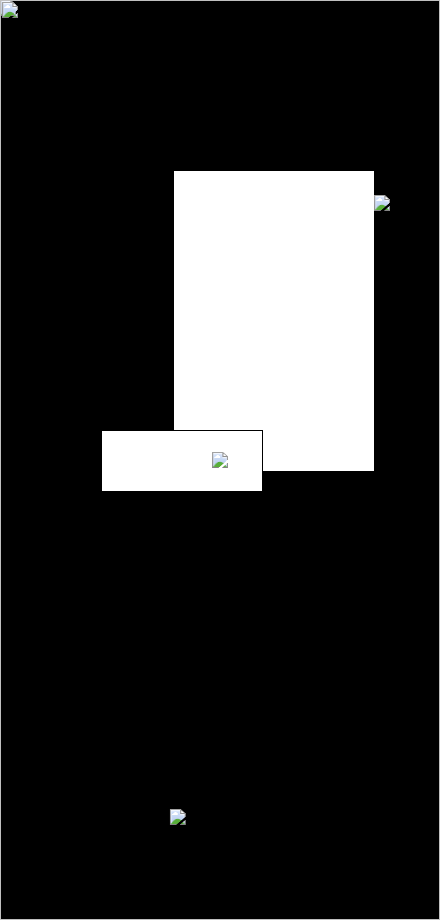
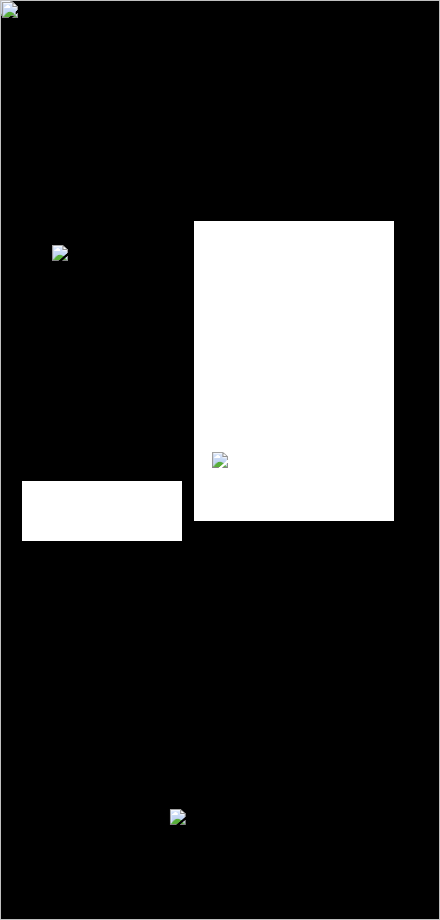
Revert result element positions on ending screen.
- Set #result-canvases top back to 210px.
- Restored Canvas 1 position to right: 25px.
- Restored Canvas 2 position to left: 1px.
- Restored Canvas 3 (cooking) position to left: 175px (top-left of Canvas 1).
- Restored endg.png position to left: 32px.
- Updated saveEndingImage coordinate mapping to reflect 210px resultAreaTop.

Changed region(s): [[0.0295, 0.1826, 0.9159, 0.6087], [0.1182, 0.2435, 0.1477, 0.3043]]

diff --git a/index.html b/index.html
@@ -450,7 +450,7 @@
 
         #result-canvases {
             position: absolute;
-            top: 160px; /* Centered (210px) shifted 50px up = 160px */
+            top: 210px;
             left: 20px;
             width: 400px;
             height: 500px;
@@ -1336,13 +1336,13 @@
             cap1.className = 'captured-canvas';
             cap2.className = 'captured-canvas';
 
-            // Layout: Canvas 1 on the right, shifted left 20px from 25px
-            cap1.style.right = '45px';
+            // Layout: Canvas 1 on the right
+            cap1.style.right = '25px';
             cap1.style.top = '10px';
             cap1.style.zIndex = '11';
 
-            // Layout: Canvas 2 overlapping Canvas 1, shifted right 80px from 1px
-            cap2.style.left = '81px';
+            // Layout: Canvas 2 overlapping Canvas 1
+            cap2.style.left = '1px';
             cap2.style.top = (10 + cap1.height - cap2.height + 20) + 'px';
             cap2.style.zIndex = '12';
 
@@ -1575,19 +1575,18 @@
             cap3.style.position = 'absolute';
             cap3.style.background = 'transparent';
             cap3.style.border = 'none';
-            // Target position: Top-left corner of Canvas 1 (which is at right 45px. 400 - 45 - 200 = 155px)
+            // Target position: Top-left corner of Canvas 1 (which is at right 25px. 400 - 25 - 200 = 175px)
             // User requested: "이미지를 캔버스1보다 위 레이어에, 왼쪽 위 모서리쪽에 위치하게 해줘"
-            cap3.style.left = '155px';
+            cap3.style.left = '175px';
             cap3.style.top = '10px';
             cap3.style.zIndex = '20';
             cap3.style.borderRadius = '50%';
 
-            // Add endg.png image: User wants it right 30px (which is left 400-30-width).
-            // Width of endg.png unknown but let's assume it was intended to accompany Canvas 1.
+            // Add endg.png image: previous stable position
             const endgImg = new Image();
             endgImg.src = 'endg.png';
             endgImg.style.position = 'absolute';
-            endgImg.style.right = '30px';
+            endgImg.style.left = '32px';
             endgImg.style.top = '35px';
             endgImg.style.width = 'auto';
             endgImg.style.height = 'auto';
@@ -1647,7 +1646,7 @@
                 return zA - zB;
             });
 
-            const resultAreaTop = 160;
+            const resultAreaTop = 210;
             const resultAreaLeft = 20;
 
             elements.forEach(el => {
